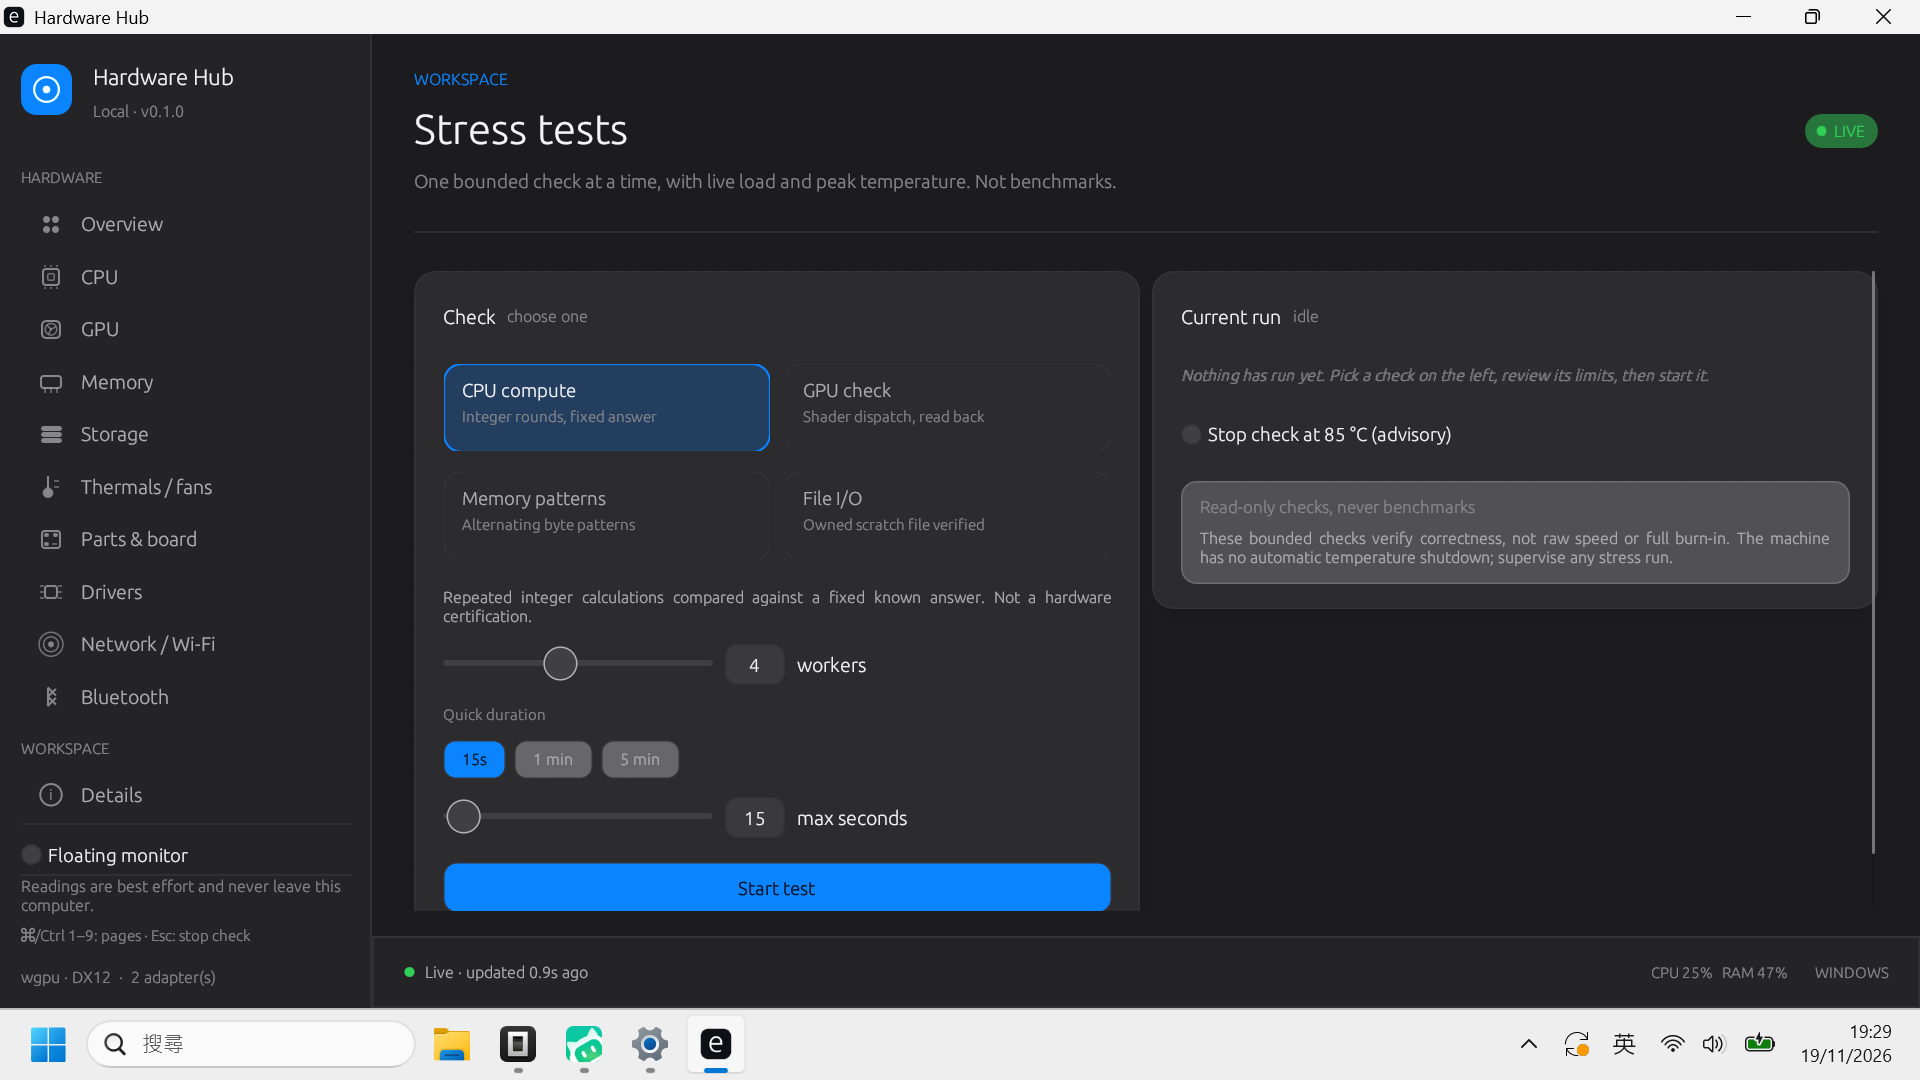
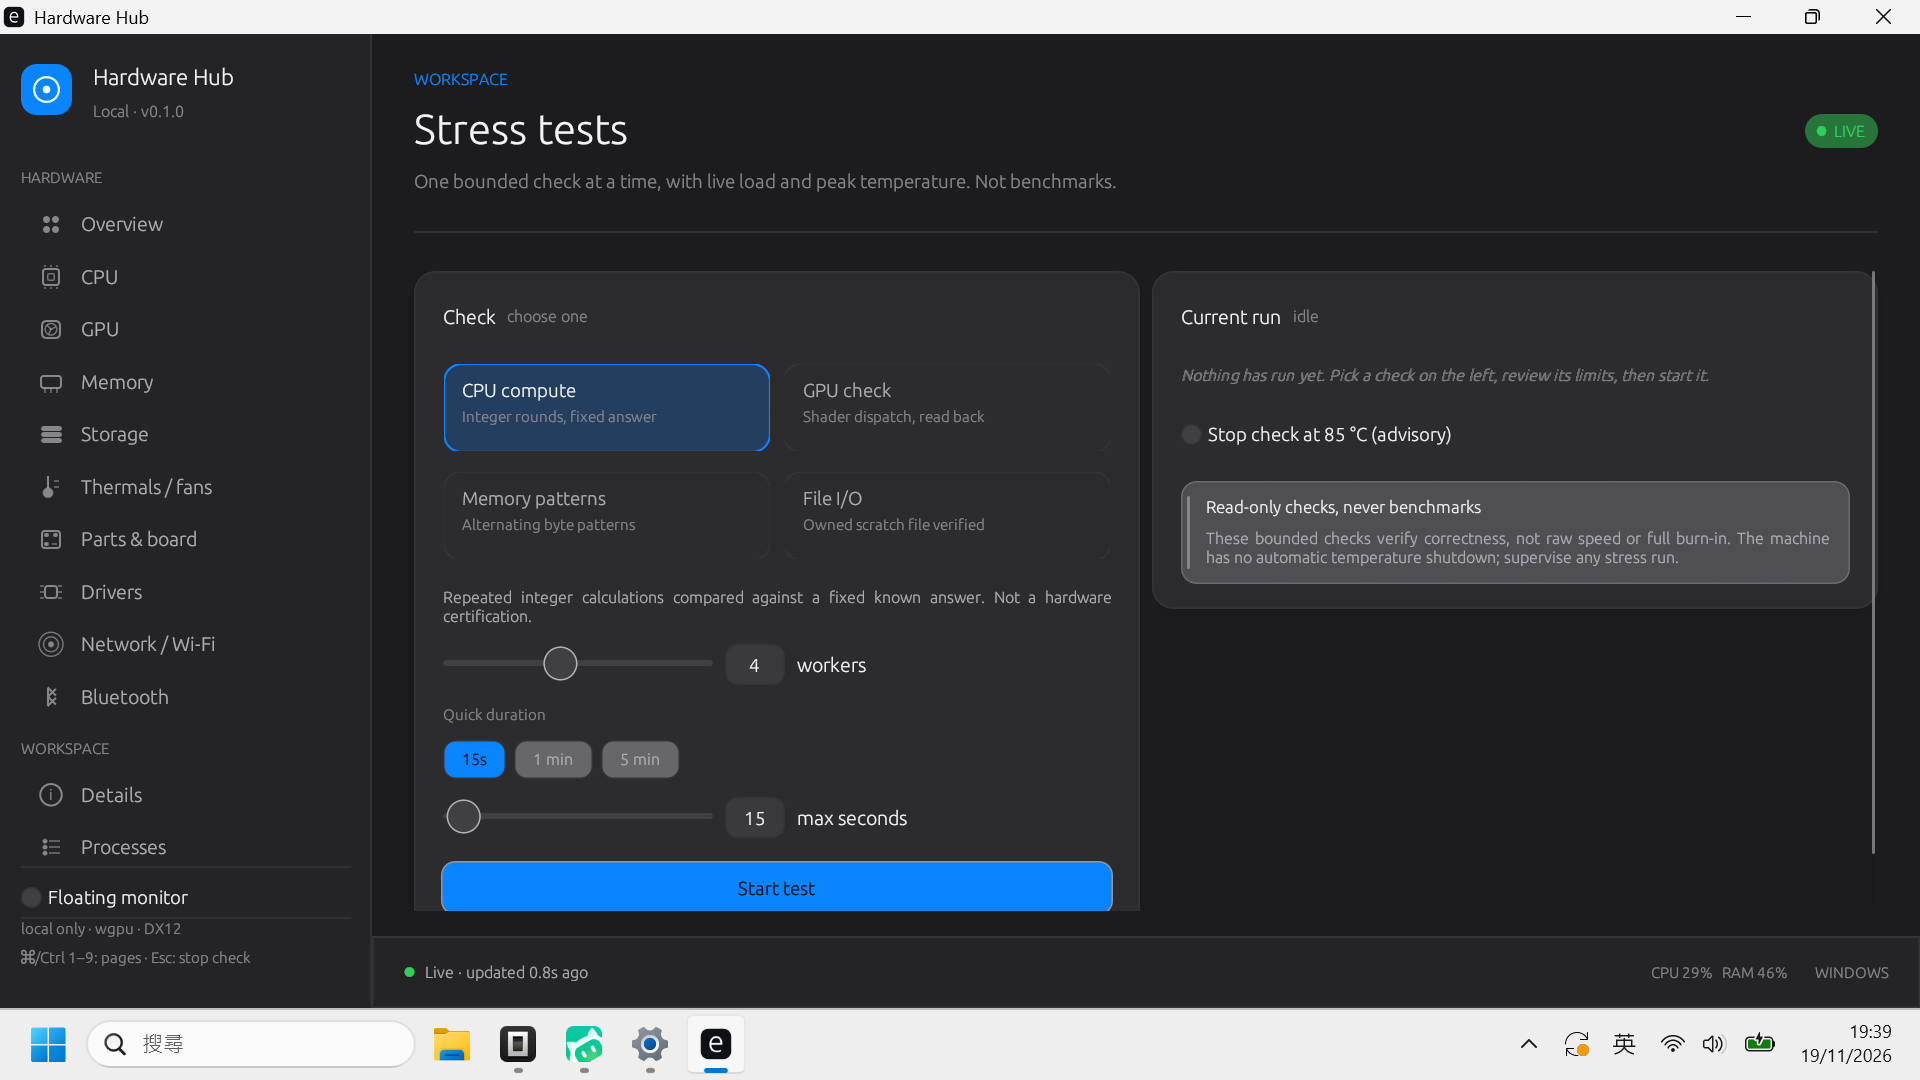
polish: validate stress UI with screenshots and fix footer/callout clarity
Compacts the sidebar footer and running indicator so nothing clips on short windows, raises callout title contrast with a tone accent bar, and adds idle/running/result screenshots of the pro-style stress tests page.

Changed region(s): [[0.0, 0.7639, 0.1562, 0.9167], [0.625, 0.4583, 0.875, 0.5194], [0.2188, 0.7944, 0.25, 0.825]]

diff --git a/src/main.rs b/src/main.rs
@@ -376,30 +376,21 @@ impl App {
                     .frame(egui::Frame::NONE)
                     .show_inside(ui, |ui| {
                         ui.add_space(2.0);
-                        ui.label(
-                            RichText::new(
-                                "Readings are best effort and never leave this computer.",
-                            )
-                            .size(10.5)
-                            .color(MUTED),
-                        );
+                        // One compact line: local-only reassurance plus the
+                        // graphics provider, so the footer never crowds the
+                        // taskbar when a run adds status rows above it.
+                        let backend = if s.adapters.is_empty() {
+                            "local readings only".to_string()
+                        } else {
+                            format!("local only · wgpu · {}", s.gpu_backend)
+                        };
+                        ui.label(RichText::new(backend).size(10.0).color(MUTED));
                         ui.label(
                             RichText::new("⌘/Ctrl 1–9: pages · Esc: stop check")
                                 .size(10.0)
                                 .color(MUTED),
                         );
-                        ui.add_space(8.0);
-                        if !s.adapters.is_empty() {
-                            ui.label(
-                                RichText::new(format!(
-                                    "wgpu · {}  ·  {} adapter(s)",
-                                    s.gpu_backend,
-                                    s.adapters.len()
-                                ))
-                                .size(10.5)
-                                .color(MUTED),
-                            );
-                        }
+                        ui.add_space(6.0);
                     });
                 egui::TopBottomPanel::bottom("nav-controls")
                     .frame(egui::Frame::NONE)
@@ -430,21 +421,22 @@ impl App {
                             .map(|state| state.running)
                             .unwrap_or(false);
                         if running {
-                            ui.colored_label(
-                                ACCENT,
-                                if self.cancel.load(Ordering::Relaxed) {
-                                    "Stopping check…"
-                                } else {
-                                    "Check running"
-                                },
-                            );
-                            if !self.cancel.load(Ordering::Relaxed)
-                                && ui.button("Stop check").clicked()
-                            {
-                                self.cancel.store(true, Ordering::Relaxed);
-                                self.message =
-                                    "Stopping after the current work or I/O operation…".into();
-                            }
+                            let stopping = self.cancel.load(Ordering::Relaxed);
+                            ui.horizontal(|ui| {
+                                ui.colored_label(
+                                    ACCENT,
+                                    if stopping {
+                                        "Stopping…"
+                                    } else {
+                                        "Check running"
+                                    },
+                                );
+                                if !stopping && ui.small_button("Stop").clicked() {
+                                    self.cancel.store(true, Ordering::Relaxed);
+                                    self.message =
+                                        "Stopping after the current work or I/O operation…".into();
+                                }
+                            });
                         }
                     });
                 egui::ScrollArea::vertical()
@@ -4115,20 +4107,32 @@ fn error_details(ui: &mut egui::Ui, errors: &[ErrorDetail], total: u64) {
 /// enough that a person should notice it before starting a test.
 fn callout(ui: &mut egui::Ui, tone: Color32, title: &str, body: &str) {
     let frame = egui::Frame {
-        fill: Color32::from_rgba_unmultiplied(tone.r(), tone.g(), tone.b(), 24),
+        fill: Color32::from_rgba_unmultiplied(tone.r(), tone.g(), tone.b(), 22),
         stroke: Stroke::new(
             1.0_f32,
-            Color32::from_rgba_unmultiplied(tone.r(), tone.g(), tone.b(), 84),
+            Color32::from_rgba_unmultiplied(tone.r(), tone.g(), tone.b(), 78),
         ),
         corner_radius: CornerRadius::same(10),
-        inner_margin: egui::Margin::symmetric(12, 10),
+        inner_margin: egui::Margin {
+            left: 16,
+            right: 12,
+            top: 10,
+            bottom: 10,
+        },
         ..Default::default()
     };
-    frame.show(ui, |ui| {
+    // Draw a slim accent bar in the panel's tone; the label stays high-contrast
+    // so even a muted callout reads clearly against the tinted background.
+    let response = frame.show(ui, |ui| {
         ui.set_width(ui.available_width());
-        ui.label(RichText::new(title).size(11.5).strong().color(tone));
+        ui.label(RichText::new(title).size(11.5).strong().color(TEXT));
         ui.label(RichText::new(body).size(10.5).color(TEXT_DIM));
     });
+    let bar = egui::Rect::from_min_size(
+        response.response.rect.left_top() + egui::vec2(4.0, 10.0),
+        egui::vec2(2.5, (response.response.rect.height() - 20.0).max(8.0)),
+    );
+    ui.painter().rect_filled(bar, CornerRadius::same(2), tone);
 }
 
 fn status_color(status: &Status) -> Color32 {
